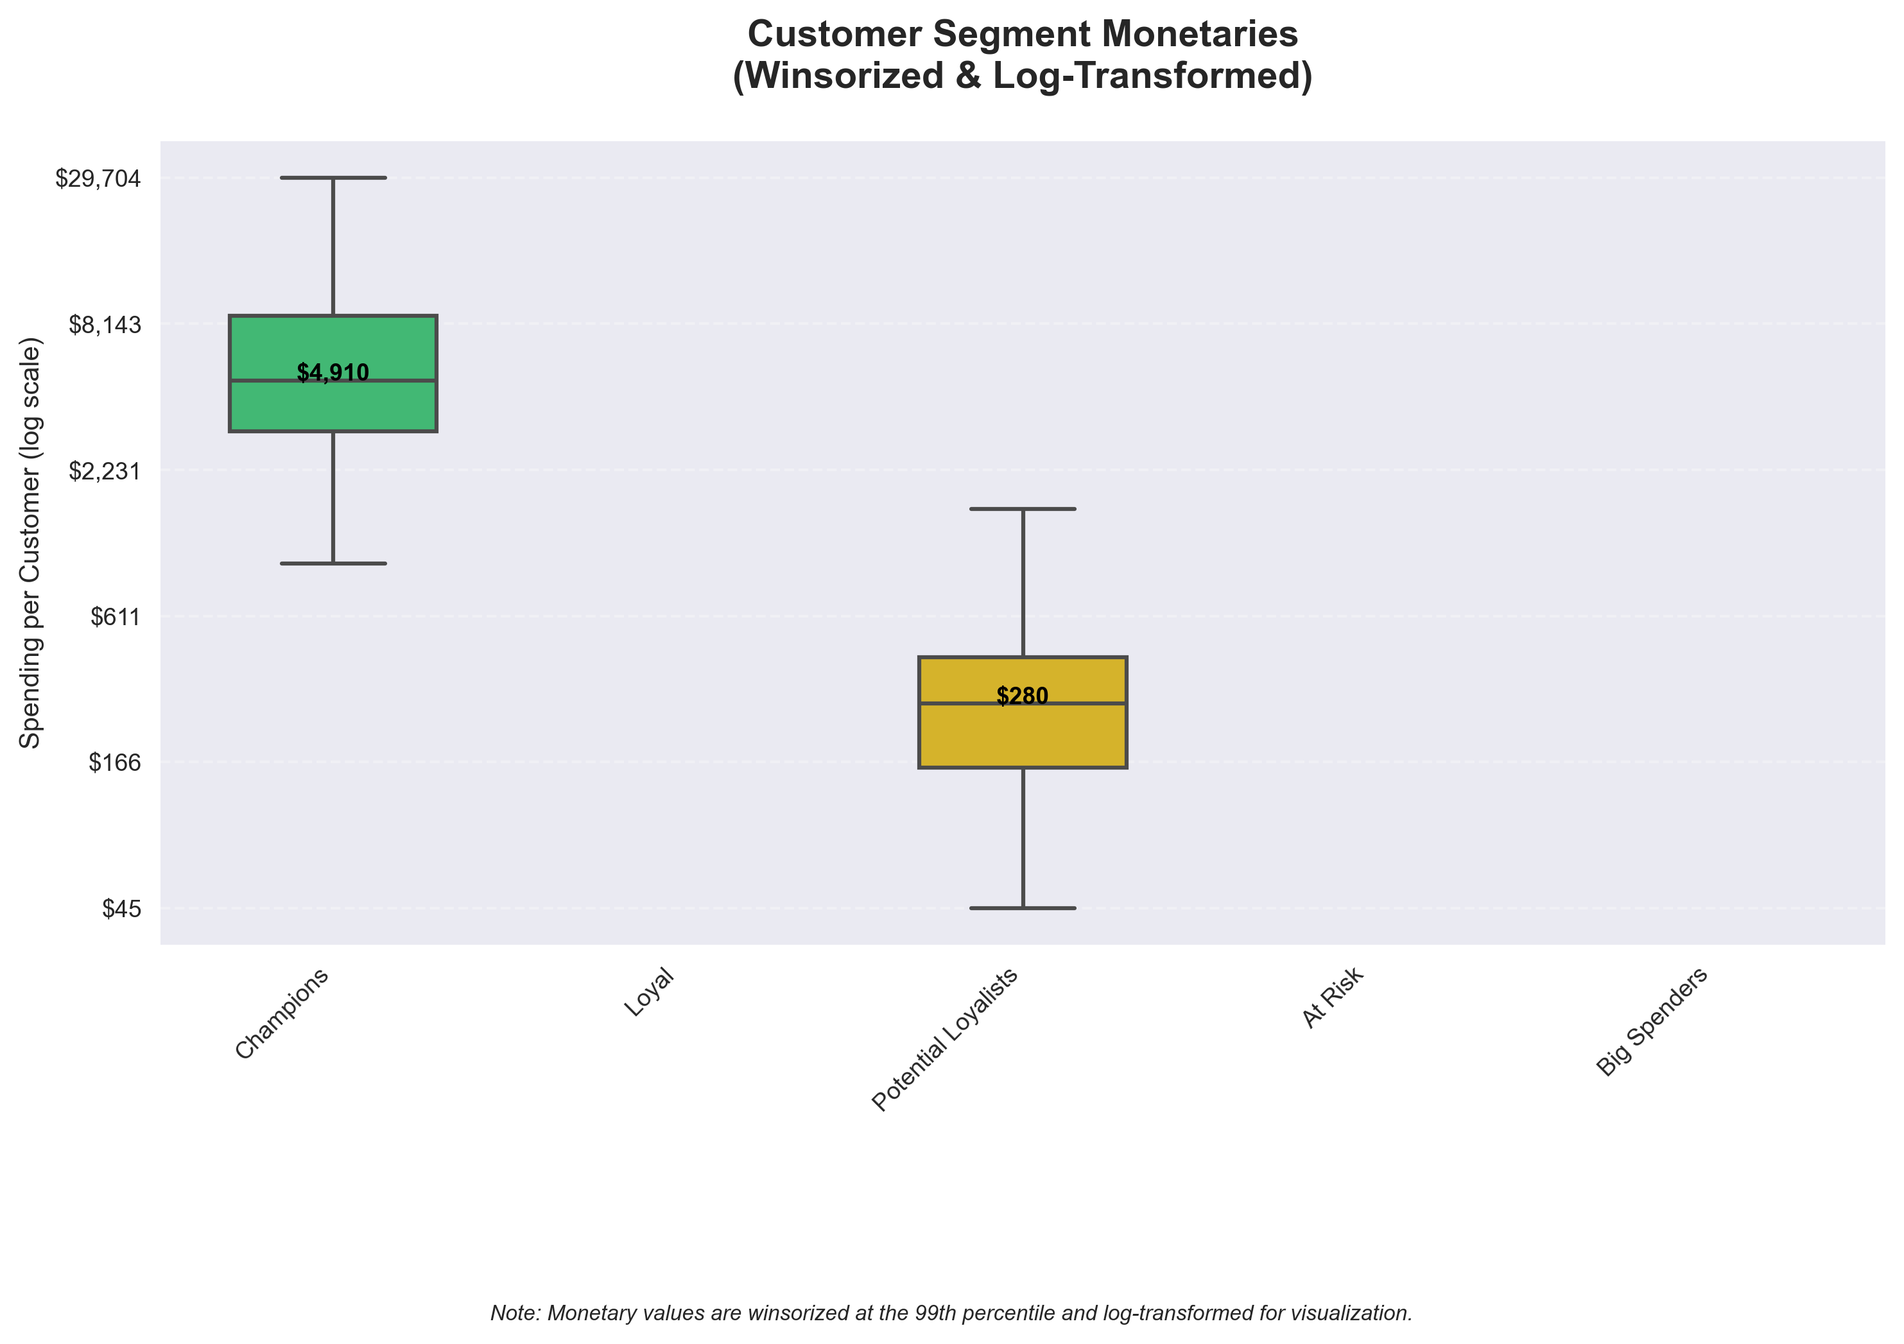
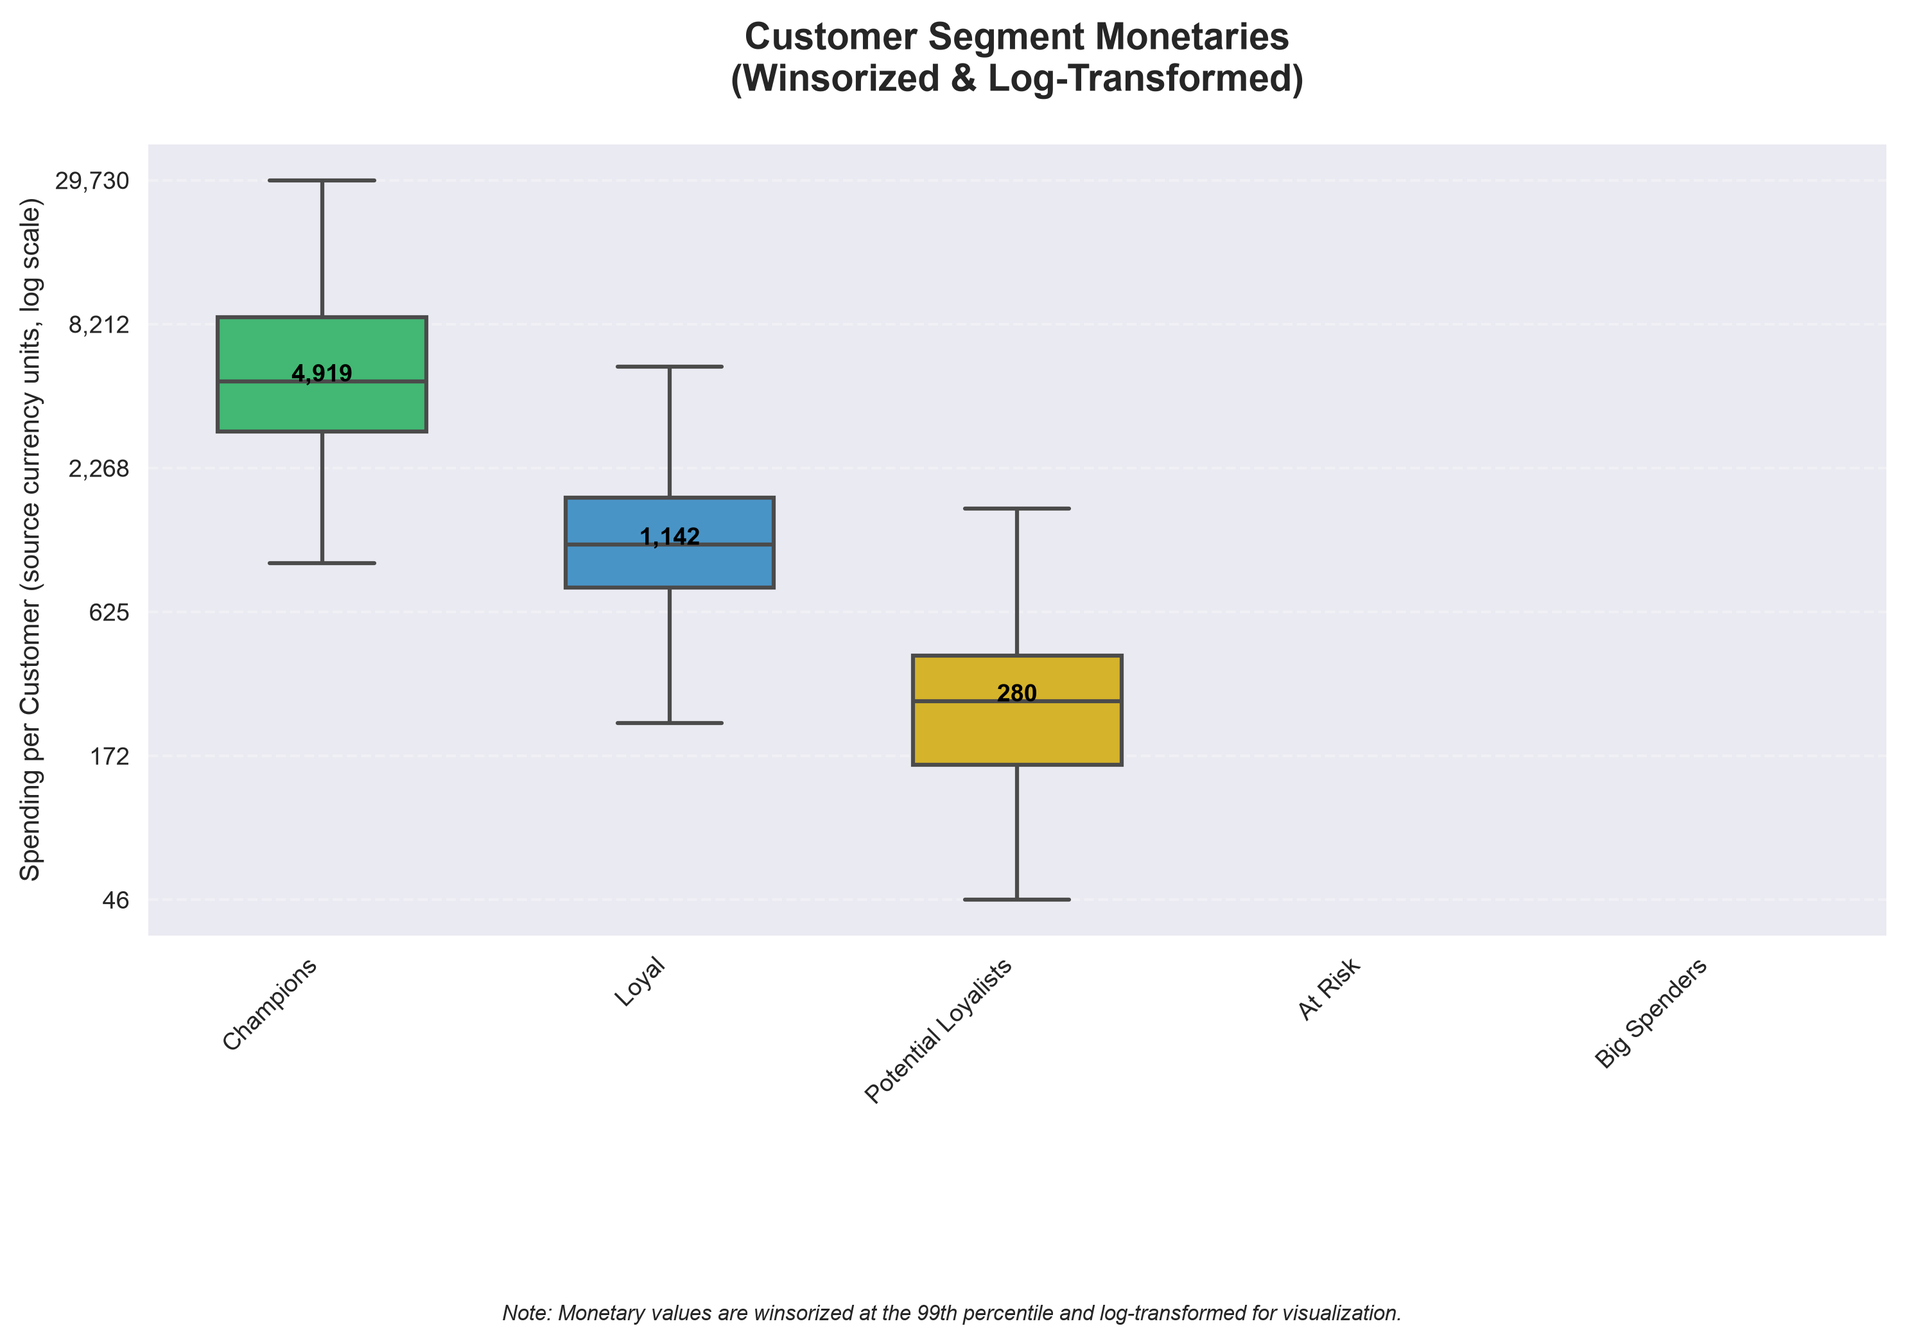
Validate RFM report on UCI Online Retail II snapshot

diff --git a/src/advanced_analysis.py b/src/advanced_analysis.py
@@ -71,7 +71,7 @@ class AdvancedRFMAnalysis:
         metrics = self.rfm.groupby('Segment_Name', observed=True).agg({
             'CustomerID': 'nunique',
             'Frequency': ['sum', 'mean'],  # Using Frequency for total orders (sum) and average frequency (mean)
-            'Monetary_w': ['sum', 'median', 'mean'],
+            'Monetary_raw': ['sum', 'median', 'mean'],
             'Recency': 'median'
         })
         
@@ -81,9 +81,9 @@ class AdvancedRFMAnalysis:
             'CustomerID_nunique': 'Customer_Count',
             'Frequency_sum': 'Total_Orders',  # Total number of orders
             'Frequency_mean': 'Avg_Frequency',
-            'Monetary_w_sum': 'Total_Revenue',
-            'Monetary_w_median': 'Median_Revenue',
-            'Monetary_w_mean': 'Mean_Revenue',
+            'Monetary_raw_sum': 'Total_Revenue',
+            'Monetary_raw_median': 'Median_Revenue',
+            'Monetary_raw_mean': 'Mean_Revenue',
             'Recency_median': 'Median_Recency'
         })
         
@@ -133,7 +133,7 @@ class AdvancedRFMAnalysis:
         medians = self.rfm.groupby('Segment_Name')['log_Monetary'].median().reindex(self.segment_names)
         for i, median in enumerate(medians):
             if not np.isnan(median):  # Only add annotation if median is not NaN
-                ax.text(i, median, f'${int(np.expm1(median)):,}', 
+                ax.text(i, median, f'{int(np.expm1(median)):,}',
                        horizontalalignment='center',
                        size=9, color='black', weight='semibold')
         
@@ -144,13 +144,13 @@ class AdvancedRFMAnalysis:
             num=6
         )
         ax.set_yticks(y_ticks)
-        ax.set_yticklabels([f'${int(np.expm1(y)):,}' for y in y_ticks])
+        ax.set_yticklabels([f'{int(np.expm1(y)):,}' for y in y_ticks])
         
         # Enhance plot appearance
         plt.title('Customer Segment Monetaries\n(Winsorized & Log-Transformed)', 
                  fontsize=14, pad=20, weight='bold')
         plt.xlabel('')
-        plt.ylabel('Spending per Customer (log scale)')
+        plt.ylabel('Spending per Customer (source currency units, log scale)')
         plt.xticks(rotation=45, ha='right')
         
         # Add grid for better readability
@@ -221,11 +221,11 @@ class AdvancedRFMAnalysis:
         )
         ax3.set_title('Average Revenue Per User (ARPU)', fontweight='bold')
         ax3.set_xlabel('')
-        ax3.set_ylabel('ARPU ($)')
+        ax3.set_ylabel('ARPU (source currency units)')
         ax3.tick_params(axis='x', rotation=45)
         
         # Format y-axis as currency
-        ax3.yaxis.set_major_formatter(plt.FuncFormatter(lambda x, loc: f'${x:,.0f}'))
+        ax3.yaxis.set_major_formatter(plt.FuncFormatter(lambda x, loc: f'{x:,.0f}'))
         
         # 4. Key Metrics Table (Bottom)
         ax4 = fig.add_subplot(gs[2, :])
@@ -234,8 +234,8 @@ class AdvancedRFMAnalysis:
         # Prepare table data
         table_data = metrics[['Customer_Count', 'Revenue_Share', 'ARPU', 'AOV', 'Median_Recency']].copy()
         table_data['Revenue_Share'] = table_data['Revenue_Share'].apply(lambda x: f'{x:.1%}')
-        table_data['ARPU'] = table_data['ARPU'].apply(lambda x: f'${x:,.2f}')
-        table_data['AOV'] = table_data['AOV'].apply(lambda x: f'${x:,.2f}')
+        table_data['ARPU'] = table_data['ARPU'].apply(lambda x: f'{x:,.2f}')
+        table_data['AOV'] = table_data['AOV'].apply(lambda x: f'{x:,.2f}')
         table_data['Median_Recency'] = table_data['Median_Recency'].apply(lambda x: f'{int(x)} days')
         
         # Create table
@@ -301,15 +301,15 @@ class AdvancedRFMAnalysis:
         Shows the distribution of revenue across customers and highlights key metrics.
         """
         # Sort customers by monetary value (ascending)
-        rfm_sorted = self.rfm.sort_values('Monetary_w')
+        rfm_sorted = self.rfm.sort_values('Monetary_raw')
         
         # Calculate cumulative percentages
         n = len(rfm_sorted)
         rfm_sorted['cumulative_pct_customers'] = np.arange(1, n + 1) / n
-        rfm_sorted['cumulative_pct_revenue'] = rfm_sorted['Monetary_w'].cumsum() / rfm_sorted['Monetary_w'].sum()
+        rfm_sorted['cumulative_pct_revenue'] = rfm_sorted['Monetary_raw'].cumsum() / rfm_sorted['Monetary_raw'].sum()
         
         # Calculate Gini coefficient
-        gini = self.calculate_gini(rfm_sorted['Monetary_w'])
+        gini = self.calculate_gini(rfm_sorted['Monetary_raw'].to_numpy())
         
         # Find the point where 80% of revenue is reached
         pct_customers_at_80pct_revenue = rfm_sorted.loc[
@@ -589,5 +589,5 @@ class AdvancedRFMAnalysis:
         return {
             'metrics': metrics,
             'action_plan': action_plan,
-            'customer_gini': self.calculate_gini(self.rfm['Monetary_w'].to_numpy()),
+            'customer_gini': self.calculate_gini(self.rfm['Monetary_raw'].to_numpy()),
         }

diff --git a/run_advanced_analysis.py b/run_advanced_analysis.py
@@ -4,6 +4,9 @@ import numpy as np
 import matplotlib.pyplot as plt
 import seaborn as sns
 import argparse
+import hashlib
+import json
+from pathlib import Path
 from src.advanced_analysis import AdvancedRFMAnalysis
 from src.data_preprocessing import load_and_clean_data
 from src.feature_engineering import create_rfm_features
@@ -42,7 +45,21 @@ def main(data_path='data/online_retail_II.csv'):
         results = analyzer.run_analysis()
         
         # Generate summary report
-        generate_summary_report(results)
+        with open(data_path, 'rb') as source:
+            input_sha256 = hashlib.file_digest(source, 'sha256').hexdigest()
+        manifest_path = Path(data_path).with_suffix('.manifest.json')
+        source_sha256 = None
+        if manifest_path.exists():
+            manifest = json.loads(manifest_path.read_text())
+            if manifest.get('output_sha256') == input_sha256:
+                source_sha256 = manifest.get('source_sha256')
+        generate_summary_report(results, {
+            'input_name': Path(data_path).name,
+            'input_sha256': input_sha256,
+            'workbook_sha256': source_sha256,
+            'included_rows': len(df),
+            'reference_date': str((df['InvoiceDate'].max() + pd.Timedelta(days=1)).date()),
+        })
         
         print("\n✅ Analysis complete! Check the visualizations/ and reports/ folders for results.")
         
@@ -52,19 +69,26 @@ def main(data_path='data/online_retail_II.csv'):
         traceback.print_exc()
         raise
 
-def generate_summary_report(results: dict) -> None:
+def generate_summary_report(results: dict, snapshot: dict) -> None:
     """Generate a markdown summary report of the analysis."""
     metrics = results['metrics']
-    action_plan = results['action_plan']
     
     # Calculate key metrics
     total_customers = metrics['Customer_Count'].sum()
-    total_revenue = metrics['Total_Revenue'].sum()
     top_segment_rev_share = metrics['Revenue_Share'].max()
     gini = results['customer_gini']
     
     # Create markdown content
-    report = """# RFM Analysis Report
+    report = f"""# RFM Analysis Report
+
+## Input snapshot
+
+- Converted CSV: `{snapshot['input_name']}`
+- CSV SHA-256: `{snapshot['input_sha256']}`
+- Source workbook SHA-256: `{snapshot['workbook_sha256'] or 'not recorded'}`
+- Included positive-sale rows: {snapshot['included_rows']:,}
+- RFM reference date: {snapshot['reference_date']}
+- Monetary unit: source currency units; no conversion applied
 
 ## Executive Summary
 
@@ -77,23 +101,14 @@ def generate_summary_report(results: dict) -> None:
     
     # Add key findings
     report += "\n\n## Key Findings\n"
-    report += f"1. **Revenue Concentration**: The top segment generates {top_segment_rev_share:.1%} of total revenue.\n"
+    report += f"1. **Observed Positive-Sale Revenue**: The top segment accounts for {top_segment_rev_share:.1%} of included positive-sale revenue. Returns and nonpositive-price adjustments are excluded.\n"
     report += f"2. **Customer Distribution**: {metrics.loc['Champions', 'Customer_Count']/total_customers:.1%} of customers are 'Champions' but generate {metrics.loc['Champions', 'Revenue_Share']:.1%} of revenue.\n"
-    report += f"3. **Gini Coefficient**: {gini:.3f}, indicating {'high' if gini > 0.6 else 'moderate'} revenue concentration.\n"
+    report += f"3. **Customer-Level Gini Coefficient**: {gini:.3f} for included positive-sale revenue.\n"
     
-    # Add recommendations
-    report += "\n## Strategic Recommendations\n"
-    report += "### 1. Champion Nurturing\n"
-    report += "- Implement VIP program with exclusive benefits\n"
-    report += "- Offer early access to new products\n"
-    
-    report += "\n### 2. Loyalty Building\n"
-    report += "- Create personalized win-back campaigns for at-risk segments\n"
-    report += "- Develop targeted cross-sell/upsell opportunities\n"
-    
-    report += "\n### 3. Revenue Diversification\n"
-    report += f"- Focus on increasing share of wallet in the top {len(metrics[metrics['Revenue_Share'] > 0.1])} segments\n"
-    report += "- Implement customer referral program\n"
+    report += "\n## Interpretation limits\n"
+    report += "These labels are descriptive cluster names, not validated loyalty or churn states. "
+    report += "The analysis does not predict CLV, prove treatment effects, or justify a specific campaign. "
+    report += "Test any proposed intervention separately with a defined outcome and comparison group.\n"
     
     # Save report
     with open('reports/rfm_analysis_report.md', 'w') as f:

diff --git a/tests/test_rfm.py b/tests/test_rfm.py
@@ -1,4 +1,5 @@
 import unittest
+import os
 from pathlib import Path
 from tempfile import TemporaryDirectory
 
@@ -7,9 +8,25 @@ import pandas as pd
 from prepare_data import convert_workbook
 from src.data_preprocessing import load_and_clean_data
 from src.feature_engineering import create_rfm_features
+from src.rfm_enhanced import calculate_rfm_scores
+from src.advanced_analysis import AdvancedRFMAnalysis
 
 
 class RFMTests(unittest.TestCase):
+    def test_nonpositive_price_adjustments_are_excluded(self):
+        with TemporaryDirectory() as folder:
+            path = Path(folder) / 'transactions.csv'
+            pd.DataFrame({
+                'Invoice': ['A', 'B', 'C'],
+                'Quantity': [1, 1, 1],
+                'InvoiceDate': ['2010-01-01'] * 3,
+                'Price': [5, 0, -2],
+                'Customer ID': [1, 2, 3],
+            }).to_csv(path, index=False)
+            clean = load_and_clean_data(path)
+        self.assertEqual(len(clean), 1)
+        self.assertEqual(clean['TotalPrice'].sum(), 5)
+
     def test_workbook_conversion_clean_run(self):
         with TemporaryDirectory() as folder:
             source = Path(folder) / 'retail.xlsx'
@@ -29,6 +46,27 @@ class RFMTests(unittest.TestCase):
         self.assertEqual(rfm.loc[1001, 'Frequency'], 2)
         self.assertEqual(rfm.loc[1002, 'Frequency'], 1)
         self.assertEqual(rfm.loc[1001, 'Monetary'], 17)
+
+    def test_report_revenue_uses_observed_sales_not_winsorized_scores(self):
+        frame = pd.DataFrame({
+            'CustomerID': [1, 2, 3],
+            'Recency': [1, 2, 3],
+            'Frequency': [1, 2, 3],
+            'Monetary': [10.0, 20.0, 1000.0],
+            'Segment_Name': ['Champions', 'Loyal', 'At Risk'],
+        })
+        scored = calculate_rfm_scores(frame)
+        self.assertEqual(scored['Monetary_raw'].sum(), 1030.0)
+        with TemporaryDirectory() as folder:
+            previous = os.getcwd()
+            os.chdir(folder)
+            try:
+                analyzer = AdvancedRFMAnalysis(scored)
+                analyzer.preprocess_monetary()
+                metrics = analyzer.calculate_segment_metrics()
+            finally:
+                os.chdir(previous)
+        self.assertEqual(metrics['Total_Revenue'].sum(), 1030.0)
 
 
 if __name__ == '__main__':

diff --git a/src/rfm_enhanced.py b/src/rfm_enhanced.py
@@ -19,7 +19,9 @@ def calculate_rfm_scores(rfm: pd.DataFrame) -> pd.DataFrame:
     # Make a copy to avoid modifying the original
     rfm = rfm.copy()
     
-    # Handle outliers
+    # Preserve observed positive-sale revenue for reports and concentration metrics.
+    rfm['Monetary_raw'] = rfm['Monetary']
+    # Use clipped monetary values only for scores and clustering.
     rfm['Monetary'] = winsorize_column(rfm['Monetary'])
     
     # Cap recency at 700 days (consider older as churned)

diff --git a/src/data_preprocessing.py b/src/data_preprocessing.py
@@ -9,8 +9,8 @@ def load_and_clean_data(filepath: str) -> pd.DataFrame:
     # Convert InvoiceDate to datetime
     df['InvoiceDate'] = pd.to_datetime(df['InvoiceDate'])
 
-    # Remove negative quantities (returns)
-    df = df[df['Quantity'] > 0]
+    # Remove returns, cancellations, and nonpositive-price adjustments.
+    df = df[(df['Quantity'] > 0) & (df['Price'] > 0)].copy()
 
     # Create TotalPrice column
     df['TotalPrice'] = df['Quantity'] * df['Price']

diff --git a/README.md b/README.md
@@ -1,6 +1,6 @@
 # Online Retail II RFM Segmentation
 
-This project cleans transaction data, computes recency, invoice frequency and monetary value per customer, clusters those features, and describes segment revenue. It does **not** predict customer lifetime value or calculate a time-based retention cohort. The committed reports and plots are historical outputs until reproduced with the input snapshot that generated them.
+This project cleans transaction data, computes recency, invoice frequency and monetary value per customer, clusters those features, and describes segment revenue. It does **not** predict customer lifetime value or calculate a time-based retention cohort. The report and charts were regenerated on 10 November 2026 using the workbook snapshot identified below; the old cohort plot was removed.
 
 ## Data
 
@@ -8,13 +8,18 @@ Download [UCI Online Retail II, dataset 502](https://archive.ics.uci.edu/dataset
 
 ```bash
 pip install -r requirements.txt
-python prepare_data.py /path/to/online_retail_II.xlsx
+mkdir -p data
+curl -fL --max-time 600 'https://archive.ics.uci.edu/static/public/502/online+retail+ii.zip' -o data/online_retail_ii.zip
+unzip -o data/online_retail_ii.zip -d data
+python prepare_data.py data/online_retail_II.xlsx
 python run_advanced_analysis.py --data data/online_retail_II.csv
 python -m unittest discover -s tests
 ```
 
-`prepare_data.py` combines workbook sheets and normalizes the required column names. It writes a JSON manifest with SHA-256 hashes of the workbook and output CSV; record the retrieval date separately. The analysis drops missing customer IDs and nonpositive quantities, then uses the last observed transaction date plus one day as the RFM reference date. Returns/cancellations are excluded; this can overstate net revenue. Segments are descriptive clusters with business-friendly labels, not validated behavioral or predictive categories.
+`prepare_data.py` combines workbook sheets and normalizes the required column names. It writes a JSON manifest with SHA-256 hashes of the workbook and output CSV; record the retrieval date separately. The analysis drops missing customer IDs, nonpositive quantities, and nonpositive prices, then uses the last observed transaction date plus one day as the RFM reference date. Returns/cancellations are excluded; reported revenue is positive observed sales, not net revenue. Monetary values are clipped for scoring and clustering, while revenue, ARPU, and Gini use the original positive-sale amounts. Segments are descriptive clusters with business-friendly labels, not validated behavioral or predictive categories.
 
-A synthetic fixture is included under `tests/fixtures` for a clean-clone preprocessing check; `python run_advanced_analysis.py --data tests/fixtures/retail_sample.csv` also passed end to end. The fixture is not a substitute for the UCI workbook or for rerunning the full report. The existing report's previous Gini formula used segment totals; the script now calculates it over customer monetary values. A real-workbook rerun was not completed because the public archive download timed out.
[1 lines of base64/hex data omitted]
+
+The generated action-plan files contain **unvalidated ideas**, not measured treatment effects or recommended interventions. Cluster labels such as “Champions” are descriptive names based partly on spend and do not establish loyalty or churn status.
 
 No software license has been granted for this repository. The UCI dataset's CC BY 4.0 license covers the data, not necessarily this project's code. Suggested repository description: “RFM customer segmentation on UCI Online Retail II with reproducible data conversion and descriptive segment reports.”

diff --git a/reports/rfm_analysis_report.md b/reports/rfm_analysis_report.md
@@ -1,5 +1,29 @@
-# RFM analysis report status
+# RFM Analysis Report
 
-This committed report is a placeholder for a reproducible run on the UCI Online Retail II workbook. The former report's segment totals and Gini value could not be tied to an available input snapshot and must not be cited as current results.
+## Input snapshot
 
-Download the workbook from the source linked in `README.md`, run `prepare_data.py` to record input and output hashes, then run `run_advanced_analysis.py --data data/online_retail_II.csv` to regenerate this report. The project describes historical RFM segments; it does not predict customer lifetime value.
+- Converted CSV: `online_retail_II.csv`
[2 lines of base64/hex data omitted]
+- Included positive-sale rows: 805,549
+- RFM reference date: 2011-12-10
+- Monetary unit: source currency units; no conversion applied
+
+## Executive Summary
+
+### Customer Segmentation Overview
+
+### Segment Metrics
+| Segment_Name        |   Customer_Count |   Revenue_Share |      ARPU |   Median_Recency |
+|:--------------------|-----------------:|----------------:|----------:|-----------------:|
+| Champions           |             1305 |       0.772456  | 10502.7   |               17 |
+| Loyal               |             2356 |       0.18705   |  1408.71  |               71 |
+| Potential Loyalists |             2217 |       0.0404936 |   324.084 |              393 |
+
+## Key Findings
+1. **Observed Positive-Sale Revenue**: The top segment accounts for 77.2% of included positive-sale revenue. Returns and nonpositive-price adjustments are excluded.
+2. **Customer Distribution**: 22.2% of customers are 'Champions' but generate 77.2% of revenue.
+3. **Customer-Level Gini Coefficient**: 0.742 for included positive-sale revenue.
+
+## Interpretation limits
+These labels are descriptive cluster names, not validated loyalty or churn states. The analysis does not predict CLV, prove treatment effects, or justify a specific campaign. Test any proposed intervention separately with a defined outcome and comparison group.
